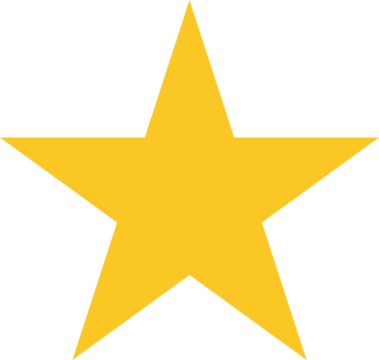
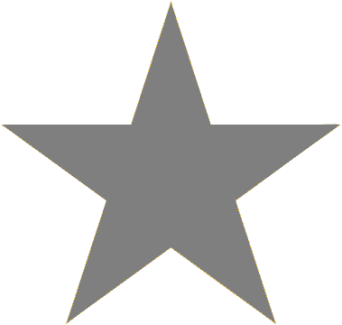
recensoni improved more

diff --git a/index.js b/index.js
@@ -180,7 +180,6 @@ $(document).ready(function(){
 			if(response.data.length != 0){
 				$("<br>").appendTo(div2)
 				$("<h3>").text("Tariffe").appendTo(div2)
-				console.log(response.data)
 				response.data.forEach(tariffa => {
 					$("<p>").text("dal " + tariffa["dataInizio"] + " al " + tariffa["dataFine"] + " al prezzo di " + tariffa["prezzo"] + "€").appendTo(div2)
 				});
@@ -189,7 +188,6 @@ $(document).ready(function(){
 	}
 
 	function sweetAlertMappa(hotel){
-		console.log(hotel)
 		Swal.fire({
 			title: `<h3>${hotel["nomeHotel"]}</h3>`,
 			showCloseButton: true,
@@ -250,7 +248,6 @@ $(document).ready(function(){
 		rq.catch(errore)
 		rq.then(function({data}){
 			data.forEach(function(item){
-				console.log(item)
 				let divEsterno = $("<div>").css({
 					"background-color": "rgba(255, 255, 255, 0.8)",
 					"border-radius": "10px",
@@ -262,14 +259,16 @@ $(document).ready(function(){
 				rq = inviaRichiesta("GET", "server/getUtente.php", {"codUtente": item["codUtente"]})
 				rq.catch(errore)
 				rq.then(function({data}){
-					console.log(data)
-					$("<img>").prop("src", "img/utenti/"+data[0]["imgProfilo"]).css({"width": "40px", "border-radius": "50%"}).appendTo(h4)
+					$("<img>").prop("src", "img/utenti/" + data[0]["imgProfilo"]).css({"width": "40px", "border-radius": "50%"}).appendTo(h4)
+					.on("error", function(){
+						$(this).prop("src", "img/utenti/defaultIMG.png").css({"width": "40px", "border-radius": "50%"}).prependTo(h4)
+					})
 					$("<span>").text(data[0]["username"]).appendTo(h4)
 					for(let i = 0; i < item["stelle"]; i++){
 						$("<img>").prop("src", "img/star.png").css({"margin": "1px", "width": "25px"}).appendTo(h4)
 					}
 					for(let i = item["stelle"]; i < 5; i++){
-						$("<img>").prop("src", "img/vallauriIcon.png").css({"margin": "1px", "width": "25px"}).appendTo(h4)
+						$("<img>").prop("src", "img/greyStar.png").css({"margin": "1px", "width": "25px"}).appendTo(h4)
 					}
 					$("<p>").text(item["testoRecensione"]).appendTo(divInterno)
 				})
